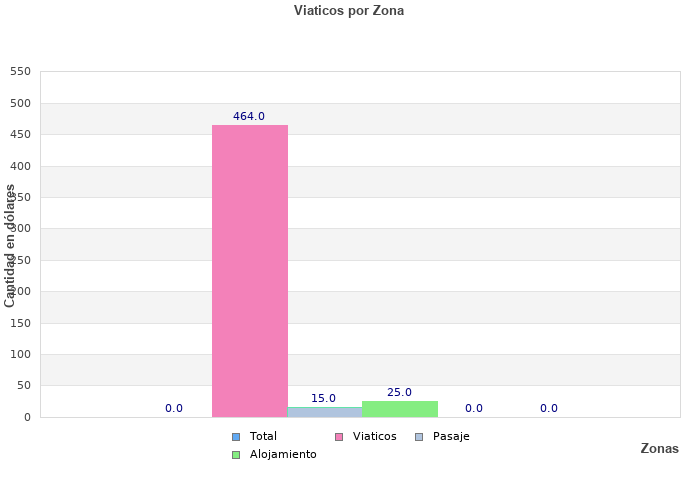
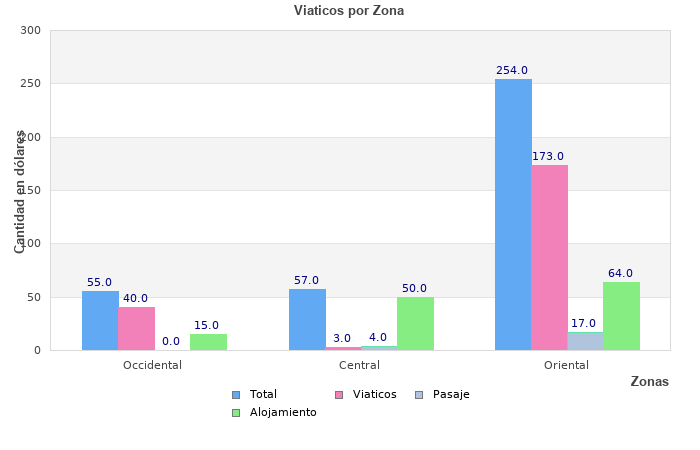
reporte de viaticos por zona

diff --git a/application/controllers/informes/Menu_reportes.php b/application/controllers/informes/Menu_reportes.php
@@ -328,59 +328,63 @@ class Menu_reportes extends CI_Controller {
 
 				$total_viaticos_central=0;
 				$total_pasajes_central=0;
-				$total_alojamiento_central=0;
+				$total_alojamientos_central=0;
 				$total_central=0;
 
 				$total_viaticos_oriental=0;
 				$total_pasajes_oriental=0;
-				$total_alojamiento_oriental=0;
+				$total_alojamientos_oriental=0;
 				$total_oriental=0;
 		
 		$data1y = array();
 		$data2y = array();
 		$data3y = array();
 		$data4y = array();
-		$data5y = array();
-		$data6y = array();
+
 		$labels = array();
 		$i=0;
 		$viatico_anual = $this->Reportes_viaticos_model->obtenerViaticoAnualxDepto($anios);
 		foreach ($viatico_anual->result() as $viaticos) {	
-					if($viaticos->id_depto>="00001" && $viaticos->id_depto<='00003'){
+			if($viaticos->id_depto>="00001" && $viaticos->id_depto<='00003'){
 						$total_viaticos_occidental+= $viaticos->viatico;
 						$total_pasajes_occidental+= $viaticos->pasaje;
 						$total_alojamientos_occidental+= $viaticos->alojamiento;
-						$data1y[$i]=$total_viaticos_occidental;
-						$data2y[$i]=$total_pasajes_occidental;
-						$data3y[$i]=$total_alojamientos_occidental;
-						$labels[$i]="Occidental";
 					}
 
 					if($viaticos->id_depto>="00004" && $viaticos->id_depto<='00010'){
 						$total_viaticos_central+= $viaticos->viatico;
 						$total_pasajes_central+= $viaticos->pasaje;
-						$total_alojamiento_central+= $viaticos->alojamiento;
-						$data4y[$i]=$total_viaticos_central;
-						$data5y[$i]=$total_pasajes_central;
-						$data6y[$i]=$total_alojamiento_central;
-							$labels[$i]="Central";
+						$total_alojamientos_central+= $viaticos->alojamiento;
 					}
 
 					if($viaticos->id_depto>="00011" && $viaticos->id_depto<='00014'){
 						$total_viaticos_oriental+=$viaticos->viatico;
 						$total_pasajes_oriental+=$viaticos->pasaje;
-						$total_alojamiento_oriental+=$viaticos->alojamiento;
-						//$labels[$i]="Oriental";
+						$total_alojamientos_oriental+=$viaticos->alojamiento;
 					}
-
-			$i++;
 		}
 		$total_occidente = $total_viaticos_occidental + $total_pasajes_occidental + $total_alojamientos_occidental;
-		$total_central = $total_viaticos_central+$total_pasajes_central+$total_alojamiento_central;
-		$total_oriental = $total_viaticos_oriental+$total_pasajes_oriental+$total_alojamiento_oriental;
+		$total_central = $total_viaticos_central+$total_pasajes_central+$total_alojamientos_central;
+		$total_oriental = $total_viaticos_oriental+$total_pasajes_oriental+$total_alojamientos_oriental;
 			
 			
-			
+		$data1y[$i]=$total_viaticos_occidental;
+		$data2y[$i]=$total_pasajes_occidental;
+		$data3y[$i]=$total_alojamientos_occidental;
+		$data4y[$i]=$total_occidente;
+		$labels[$i]="Occidental";
+		$i++;
+		$data1y[$i]=$total_viaticos_central;
+		$data2y[$i]=$total_pasajes_central;
+		$data3y[$i]=$total_alojamientos_central;
+		$data4y[$i]=$total_central;
+		$labels[$i]="Central";
+		$i++;
+		$data1y[$i]=$total_viaticos_oriental;
+		$data2y[$i]=$total_pasajes_oriental;
+		$data3y[$i]=$total_alojamientos_oriental;
+		$data4y[$i]=$total_oriental;
+		$labels[$i]="Oriental";
 			
 			
 		//	$labels[1]="Central";
@@ -388,24 +392,23 @@ class Menu_reportes extends CI_Controller {
 
 			
 		// Create the graph. These two calls are always required
-		$graph = new Graph(700,500);
+		$graph = new Graph(700,450);
 		
 		$graph->SetScale("textlin");
 		//$graph->Set90AndMargin(0,0,0,0);
 		$graph->SetShadow();
 
-		//$graph->img->SetMargin(40,30,30,70);
+		$graph->img->SetMargin(50,30,30,100);
 
 		// Create the bar plots
 		$b1plot = new BarPlot($data1y);
 		$b2plot = new BarPlot($data2y);
 		$b3plot = new BarPlot($data3y);
 		$b4plot = new BarPlot($data4y);
-		$b5plot = new BarPlot($data5y);
-		$b6plot = new BarPlot($data6y);
+		
 		
 		// Create the grouped bar plot
-		$gbplot = new GroupBarPlot(array($b4plot,$b1plot,$b2plot,$b3plot,$b5plot,$b6plot));
+		$gbplot = new GroupBarPlot(array($b4plot,$b1plot,$b2plot,$b3plot));
 
 		// ...and add it to the graPH
 		$graph->Add($gbplot);
@@ -421,9 +424,7 @@ class Menu_reportes extends CI_Controller {
 		$b3plot->SetLegend("Alojamiento");
 		$b4plot->value->Show();
 		$b4plot->SetLegend("Total");
-
-		$b5plot->value->Show();
-		$b6plot->value->Show();
+		
 
 		$graph->title->Set(utf8_decode("Viaticos por Zona"));
 		$graph->yaxis->title->Set("Cantidad en dólares");
@@ -433,7 +434,7 @@ class Menu_reportes extends CI_Controller {
 		$graph->yaxis->title->SetFont(FF_ARIAL,FS_BOLD);
 		$graph->xaxis->SetTickLabels($labels);
 		$graph->xaxis->title->SetFont(FF_ARIAL,FS_BOLD);
-		$graph->yaxis->scale->SetGrace(10);
+		$graph->yaxis->scale->SetGrace(5);
 
 		
 		
@@ -518,19 +519,19 @@ class Menu_reportes extends CI_Controller {
 
 					if($viaticos->id_depto>="00004" && $viaticos->id_depto<='00010'){
 						$total_viaticos_central+= $viaticos->viatico;
-						$total_viaticos_central+= $viaticos->pasaje;
-						$total_viaticos_central+= $viaticos->alojamiento;
+						$total_pasajes_central+= $viaticos->pasaje;
+						$total_alojamientos_central+= $viaticos->alojamiento;
 					}
 
 					if($viaticos->id_depto>="00011" && $viaticos->id_depto<='00014'){
 						$total_viaticos_oriental+=$viaticos->viatico;
-						$total_viaticos_oriental+=$viaticos->pasaje;
-						$total_viaticos_oriental+=$viaticos->alojamiento;
+						$total_pasajes_oriental+=$viaticos->pasaje;
+						$total_alojamientos_oriental+=$viaticos->alojamiento;
 					}
 				}
 				$total_occidente = $total_viaticos_occidental + $total_pasajes_occidental + $total_alojamientos_occidental;
-				$total_central = $total_viaticos_central+$total_viaticos_central+$total_viaticos_central;
-				$total_oriental = $total_viaticos_oriental+$total_viaticos_oriental+$total_viaticos_oriental;
+				$total_central = $total_viaticos_central+$total_pasajes_central+$total_alojamientos_central;
+				$total_oriental = $total_viaticos_oriental+$total_pasajes_oriental+$total_alojamientos_oriental;
 					$cuerpo .= '
 						<tr>
 							<td align="center" style="width:180px">Occidental</td>
@@ -542,15 +543,15 @@ class Menu_reportes extends CI_Controller {
 						<tr>
 							<td align="center" style="width:180px">Central</td>
 							<td align="center" style="width:180px">$'.number_format($total_viaticos_central,2,".",",").'</td>
-							<td align="center" style="width:180px">$'.number_format($total_viaticos_central,2,".",",").'</td>
-							<td align="center" style="width:180px">$'.number_format($total_viaticos_central,2,".",",").'</td>
+							<td align="center" style="width:180px">$'.number_format($total_pasajes_central,2,".",",").'</td>
+							<td align="center" style="width:180px">$'.number_format($total_alojamientos_central,2,".",",").'</td>
 							<td align="center" style="width:180px">$'.number_format($total_central,2,".",",").'</td>
 						</tr>
 						<tr>
 							<td align="center" style="width:180px">Oriental</td>
 							<td align="center" style="width:180px">$'.number_format($total_viaticos_oriental,2,".",",").'</td>
-							<td align="center" style="width:180px">$'.number_format($total_viaticos_oriental,2,".",",").'</td>
-							<td align="center" style="width:180px">$'.number_format($total_viaticos_oriental,2,".",",").'</td>
+							<td align="center" style="width:180px">$'.number_format($total_pasajes_oriental,2,".",",").'</td>
+							<td align="center" style="width:180px">$'.number_format($total_alojamientos_oriental,2,".",",").'</td>
 							<td align="center" style="width:180px">$'.number_format($total_oriental,2,".",",").'</td>
 						</tr>
 						';
